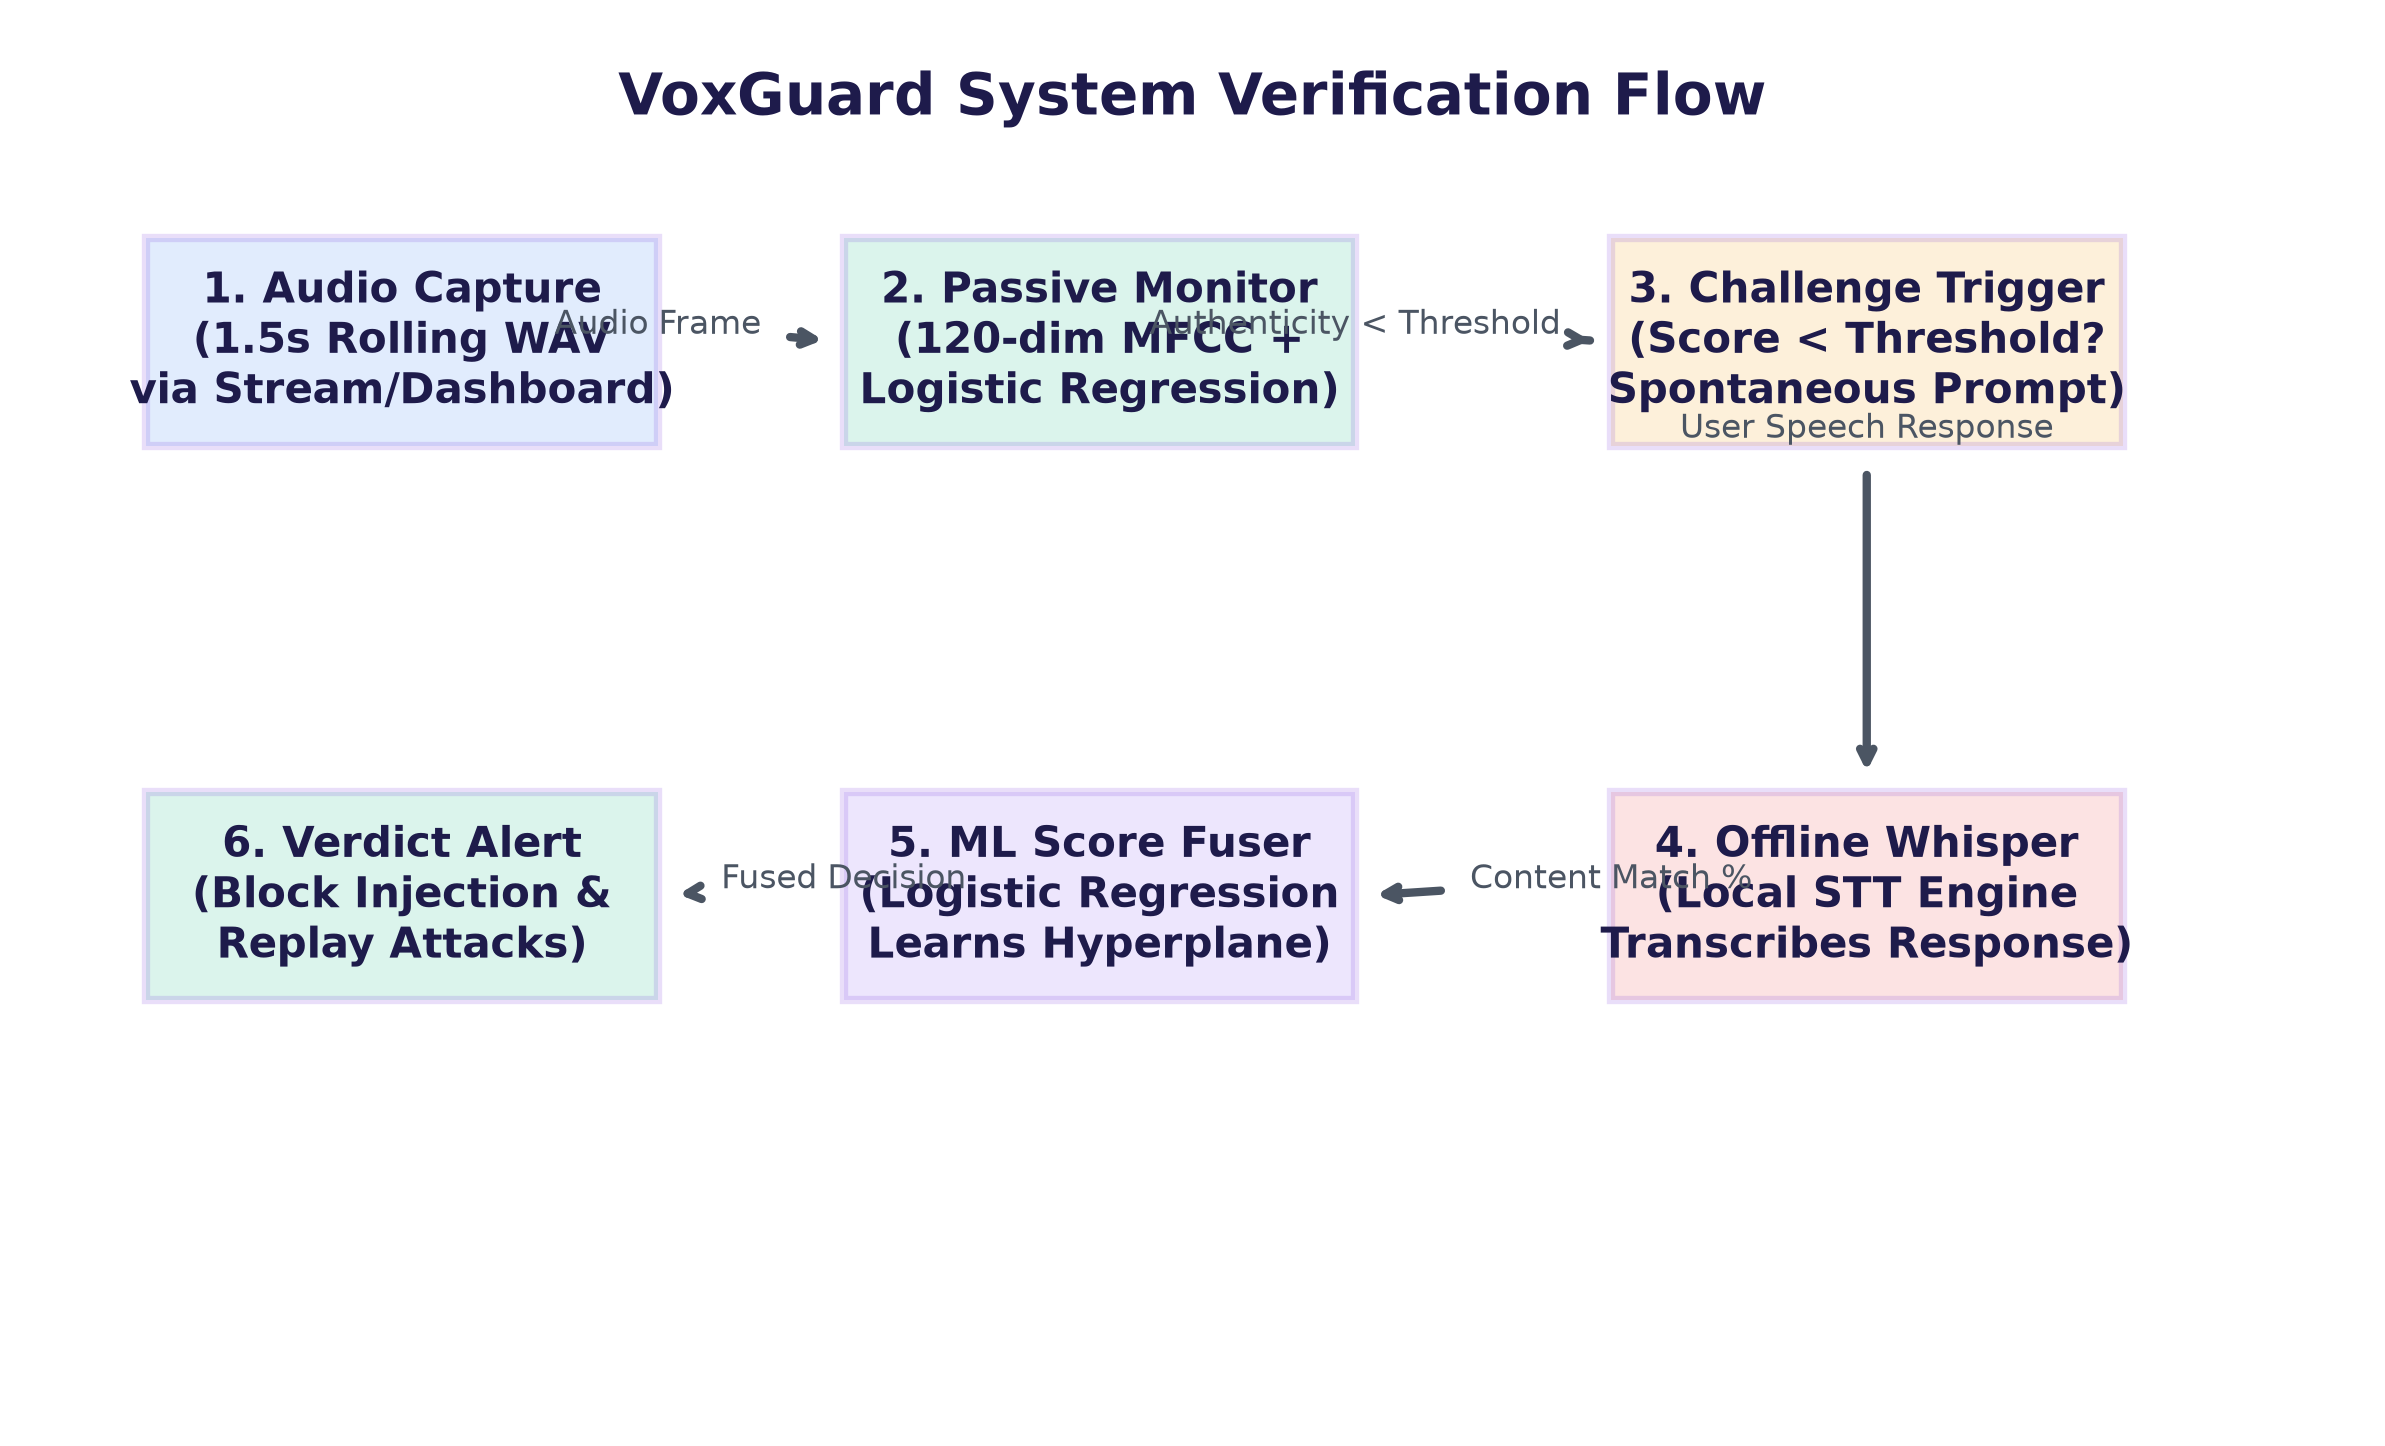
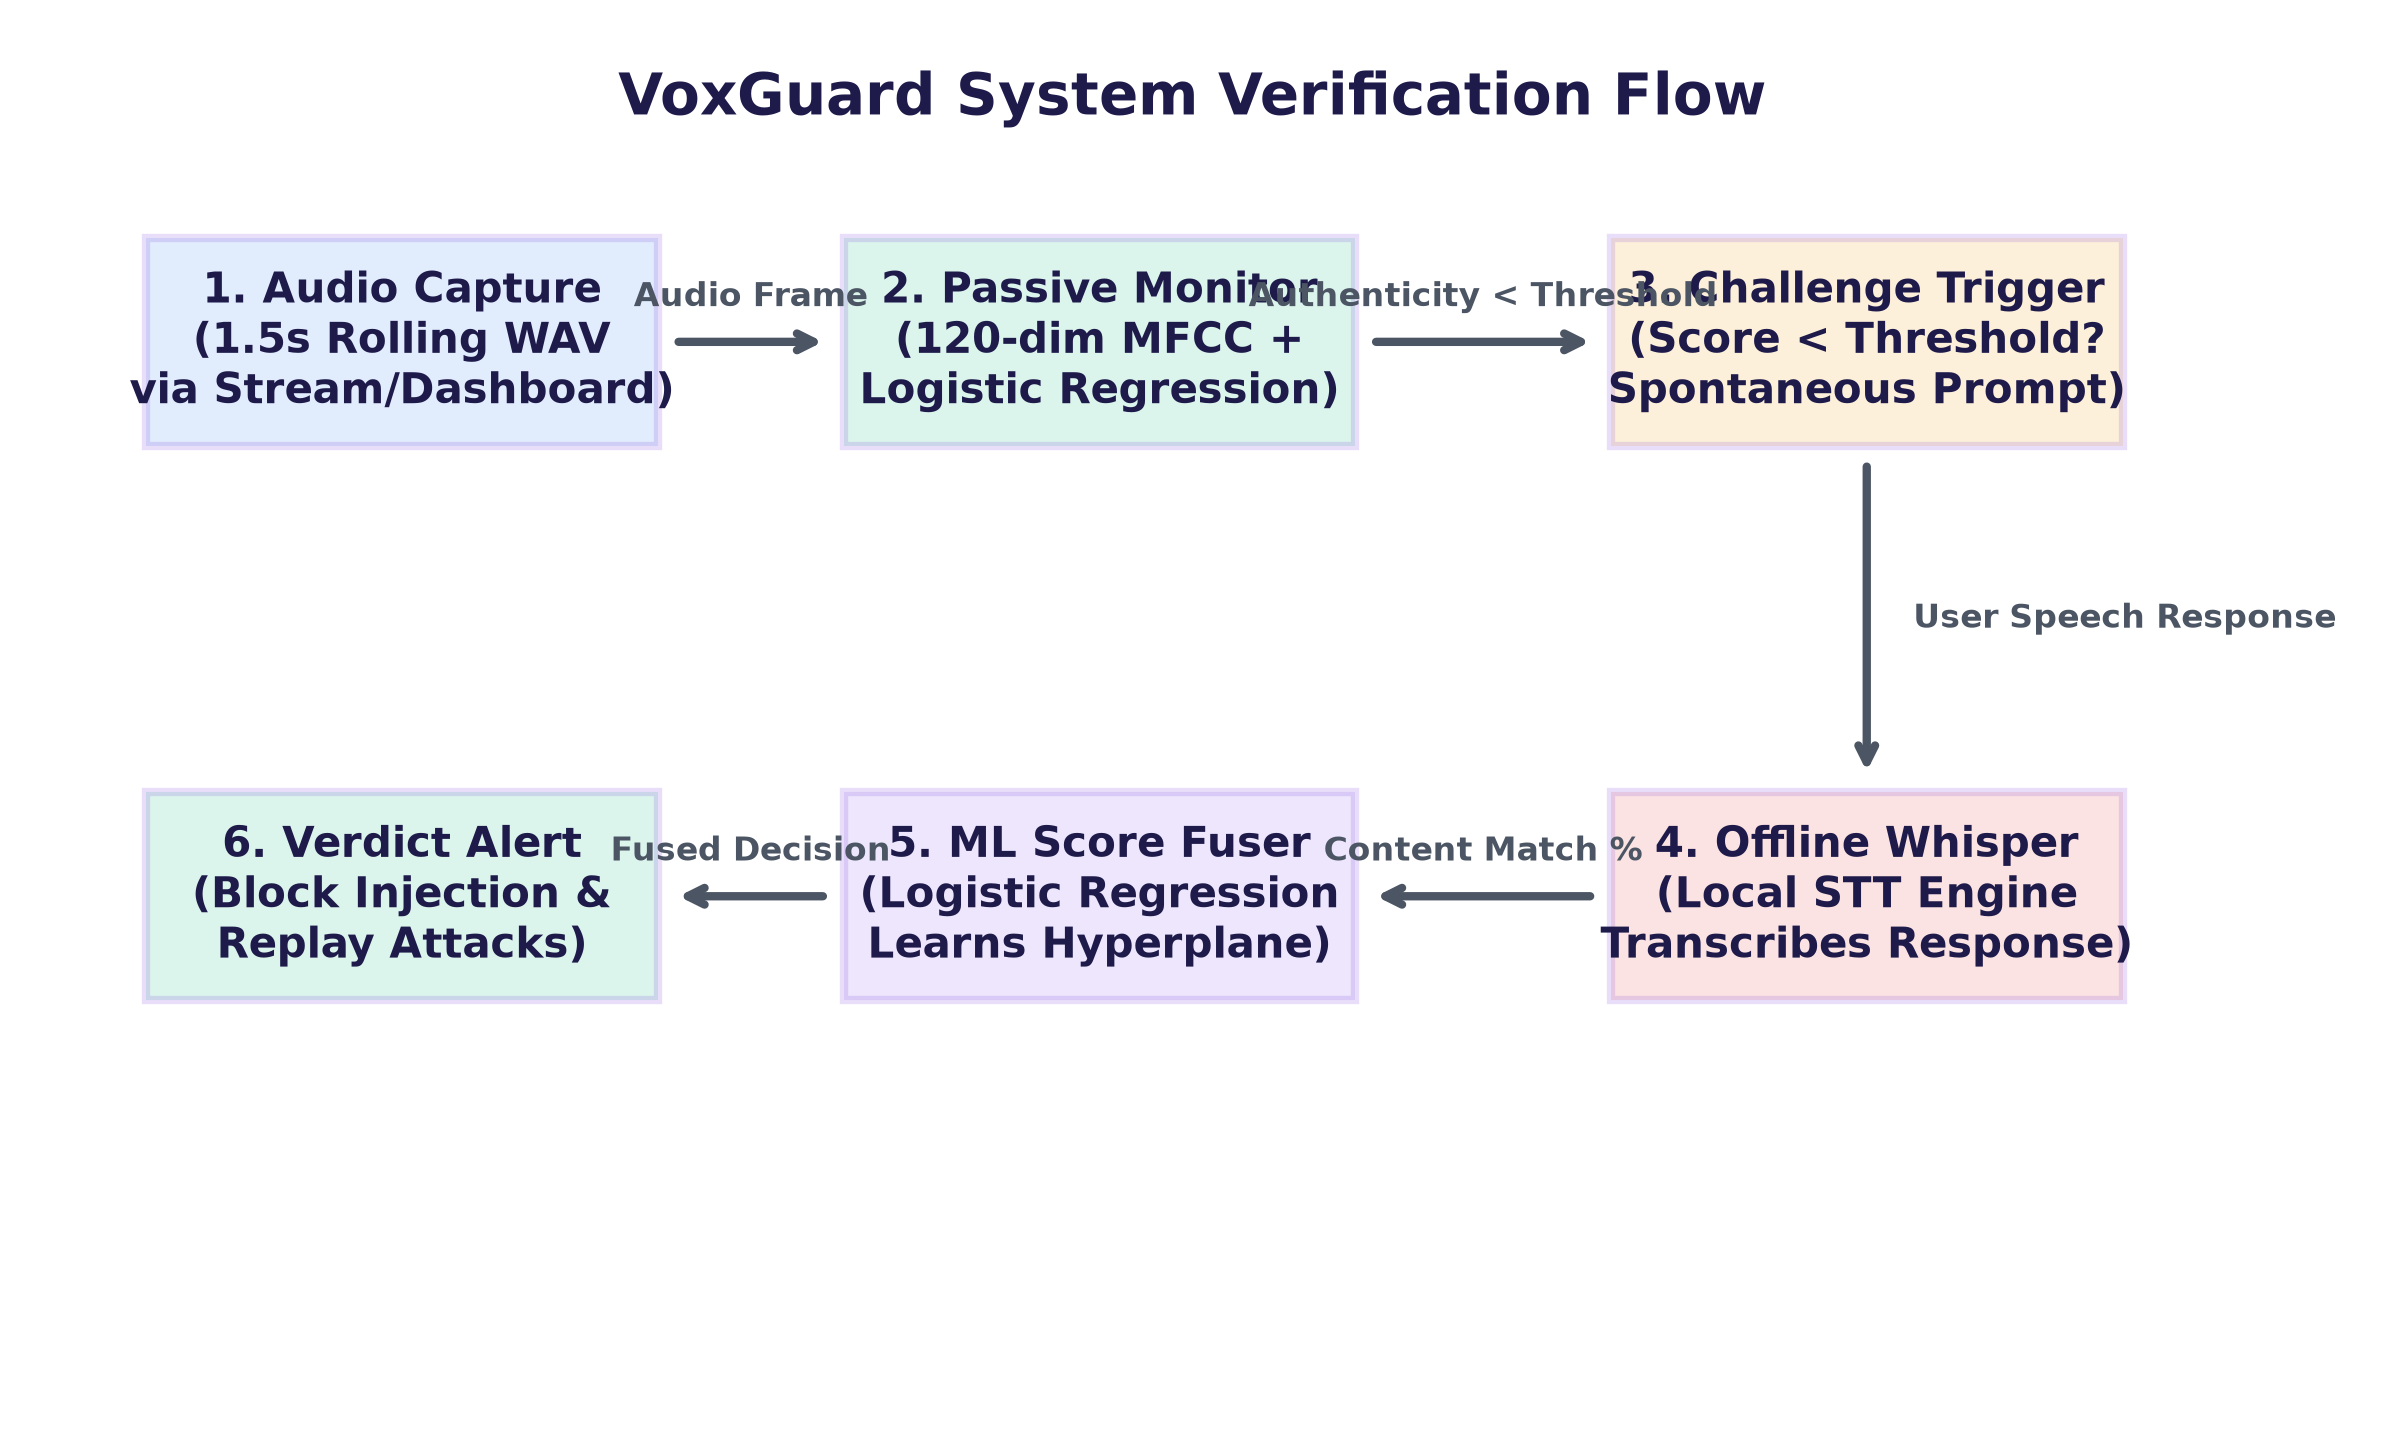
Fix text overlaps in system architecture diagram by offsetting labels from arrow lines

diff --git a/scripts/generate_plots.py b/scripts/generate_plots.py
@@ -80,9 +80,17 @@ def draw_architecture_diagram(save_path):
         
     # Helper to draw arrows
     def draw_arrow(x1, y1, x2, y2, label=""):
-        ax.annotate(label, xy=(x2, y2), xytext=(x1, y1),
-                    arrowprops=dict(arrowstyle="->", color="#4b5563", lw=2, shrinkA=5, shrinkB=5),
-                    ha="center", va="bottom", fontsize=8, color="#4b5563")
+        ax.annotate("", xy=(x2, y2), xytext=(x1, y1),
+                    arrowprops=dict(arrowstyle="->", color="#4b5563", lw=2, shrinkA=5, shrinkB=5))
+        if label:
+            mx = (x1 + x2) / 2
+            my = (y1 + y2) / 2
+            if abs(y1 - y2) < 0.01:
+                # Horizontal arrow: place text above
+                ax.text(mx, my + 0.02, label, ha="center", va="bottom", fontsize=8, color="#4b5563", fontweight="semibold")
+            else:
+                # Vertical arrow: place text to the side
+                ax.text(mx + 0.02, my, label, ha="left", va="center", fontsize=8, color="#4b5563", fontweight="semibold")
 
     # Draw boxes
     draw_box(0.05, 0.7, 0.22, 0.15, "1. Audio Capture\n(1.5s Rolling WAV\nvia Stream/Dashboard)", "#3b82f6")